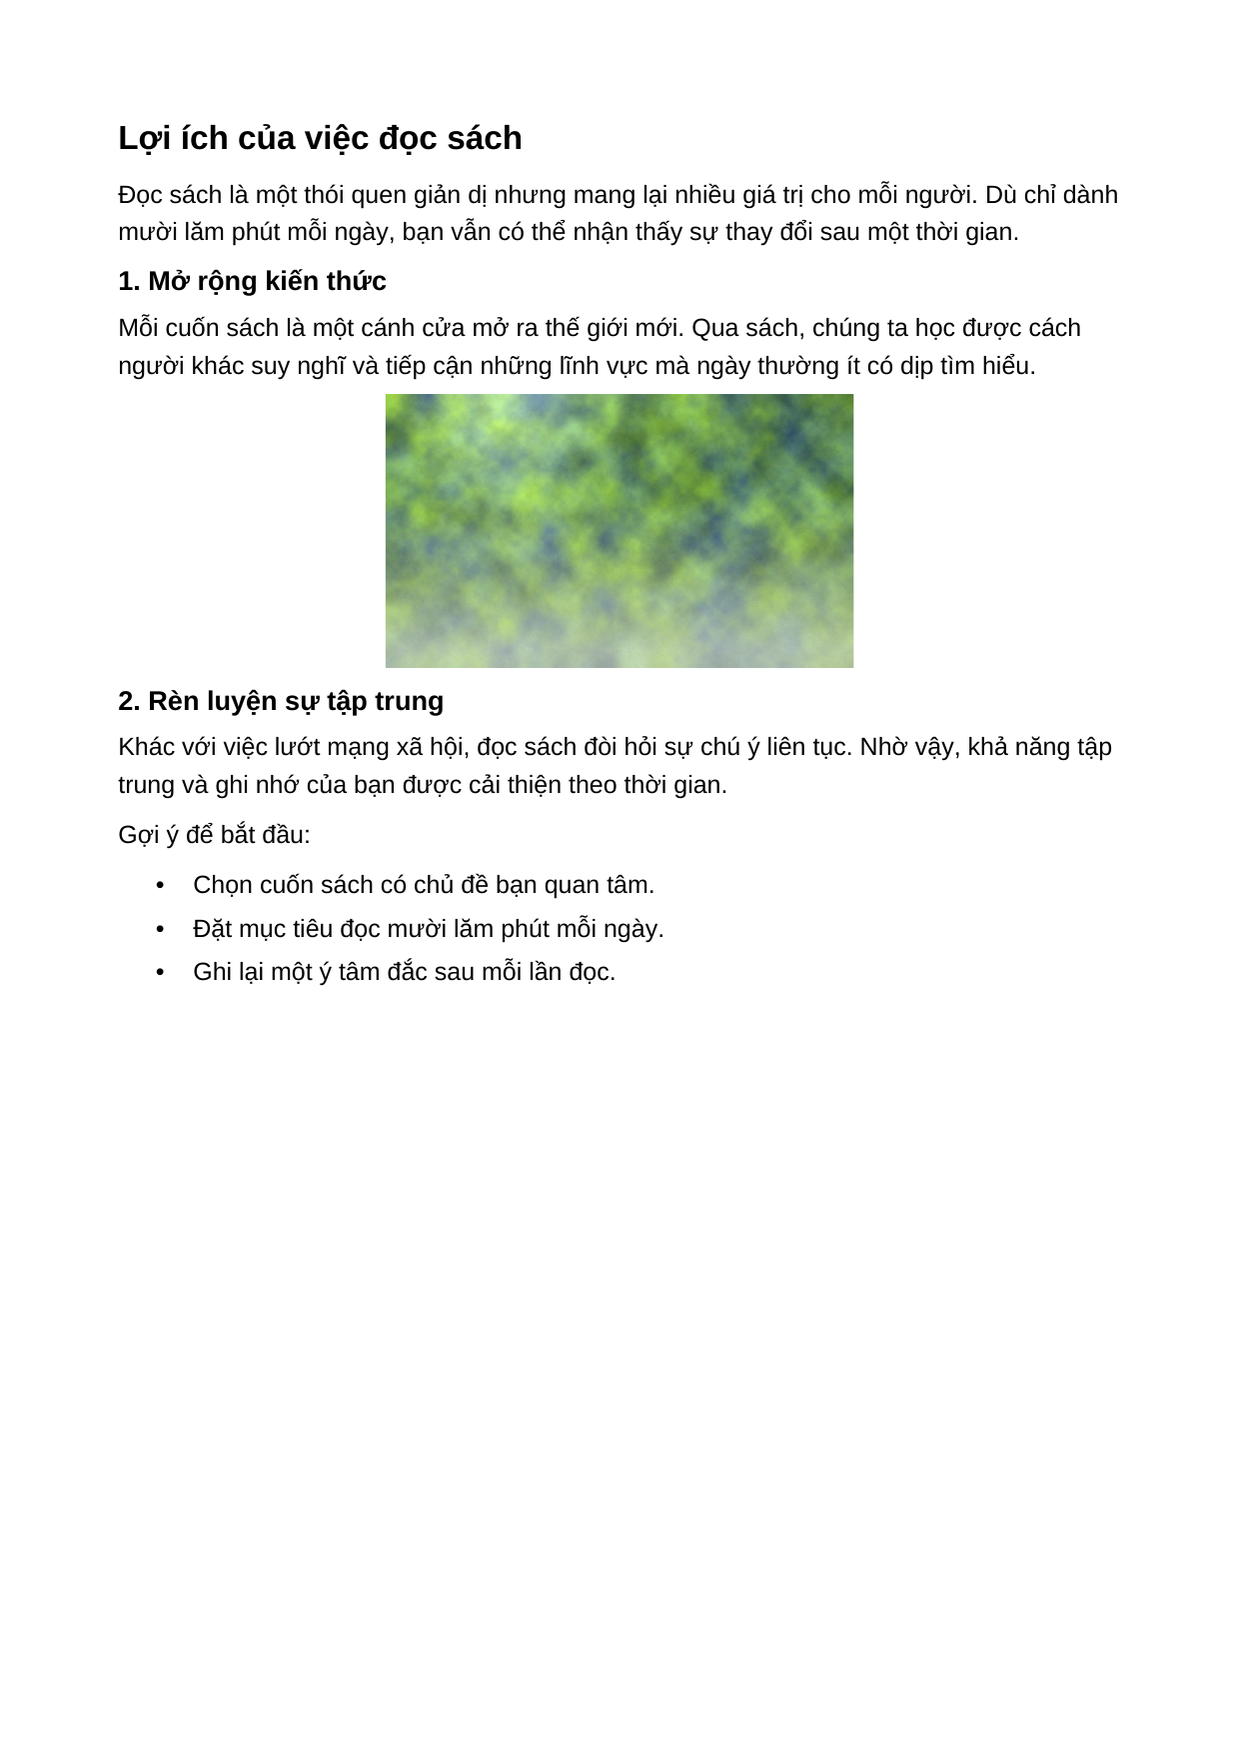
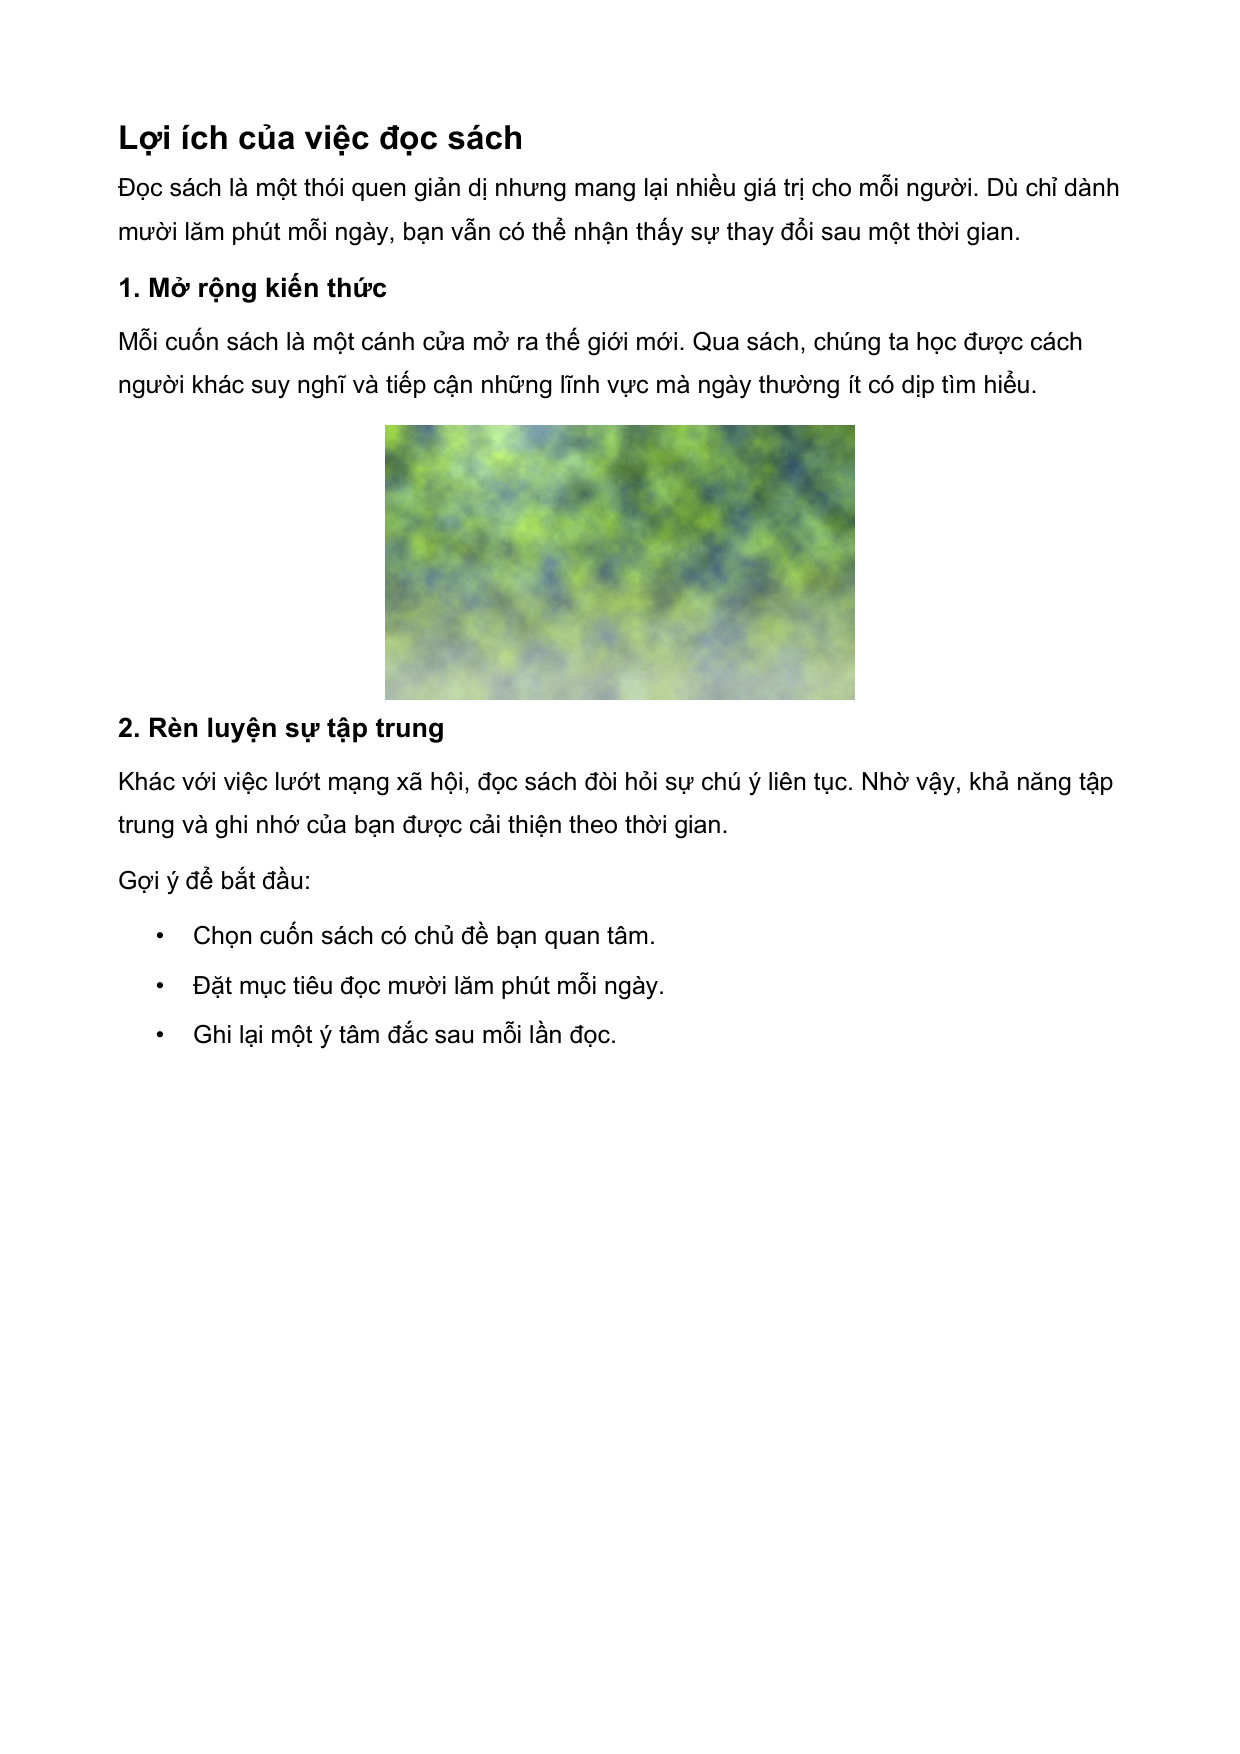
data: render lại ảnh clean từ PDF, thêm morphology ccl rlsa

Changed region(s): [[0.0919, 0.0616, 0.9194, 0.6157]]

diff --git a/src/ccl.py b/src/ccl.py
@@ -1,0 +1,93 @@
+import numpy as np
+
+
+def connected_components(binary, connectivity=8):
+    """Gán nhãn thành phần liên thông.
+    binary      : ảnh 2 chiều, điểm > 0 là điểm trắng (đối tượng)
+    connectivity: 8 (tính đường chéo, giống mặc định của cv2) hoặc 4
+    Trả về (labels, num): labels cùng cỡ ảnh, nền = 0, các vùng = 1..num
+    """
+    if connectivity not in (4, 8):
+        raise ValueError("connectivity phải là 4 hoặc 8")
+    fg = binary > 0
+    h, w = fg.shape
+
+    # Mảng nhãn có thêm 1 hàng phía trên và 1 cột mỗi bên (toàn số 0).
+    # Nhờ viền này, hàng xóm nằm ngoài ảnh tự động là 0, khỏi phải kiểm tra biên.
+    lab = np.zeros((h + 1, w + 2), dtype=np.int32)
+
+    parent = [0]                      # sổ union-find: parent[x] = "cha" của nhãn x (nhãn 0 là nền)
+
+    def find(x):
+        # Lần theo cha cho đến khi gặp gốc (gốc có parent[x] == x)
+        root = x
+        while parent[root] != root:
+            root = parent[root]
+        while parent[x] != root:      # nén đường đi: nối thẳng mọi nhãn trên đường về gốc
+            parent[x], x = root, parent[x]
+        return root
+
+    def union(a, b):
+        # Gộp hai nhóm. Luôn cho gốc LỚN hơn trỏ về gốc NHỎ hơn.
+        ra, rb = find(a), find(b)
+        if ra != rb:
+            if ra < rb:
+                parent[rb] = ra
+            else:
+                parent[ra] = rb
+
+    # ---------------- LƯỢT 1 ----------------
+    # np.nonzero trả về tọa độ điểm trắng theo đúng thứ tự quét (hàng trước, cột sau)
+    ys, xs = np.nonzero(fg)
+    nxt = 1                           # nhãn mới sẽ cấp
+    for y, x in zip(ys.tolist(), xs.tolist()):
+        y1, x1 = y + 1, x + 1         # vị trí tương ứng trong mảng có viền
+        nb = [lab[y1, x1 - 1],        # W : bên trái
+              lab[y1 - 1, x1]]        # N : bên trên
+        if connectivity == 8:
+            nb.append(lab[y1 - 1, x1 - 1])   # NW: trên-trái
+            nb.append(lab[y1 - 1, x1 + 1])   # NE: trên-phải
+        nb = [v for v in nb if v > 0]        # chỉ giữ hàng xóm đã có nhãn
+
+        if not nb:                    # không hàng xóm nào có nhãn -> đảo mới
+            lab[y1, x1] = nxt
+            parent.append(nxt)        # nhãn mới tự là gốc của chính nó
+            nxt += 1
+        else:
+            m = min(nb)               # lấy nhãn nhỏ nhất
+            lab[y1, x1] = m
+            for v in nb:              # các nhãn khác m thật ra cùng một đảo -> gộp
+                if v != m:
+                    union(v, m)
+
+    # ---------------- LƯỢT 2 ----------------
+    # Tìm gốc của từng nhãn tạm, rồi đánh số lại 1..k theo thứ tự gốc tăng dần
+    roots = [find(i) for i in range(nxt)]
+    uniq = sorted(set(roots) - {0})
+    new_id = {r: i + 1 for i, r in enumerate(uniq)}
+    lut = np.zeros(nxt, dtype=np.int32)          # bảng tra: nhãn tạm -> nhãn chính thức
+    for i in range(1, nxt):
+        lut[i] = new_id[roots[i]]
+    labels = lut[lab[1:, 1:-1]]                  # bỏ viền, đổi nhãn bằng bảng tra (rất nhanh)
+    return labels, len(uniq)
+
+
+def bounding_boxes(labels, num):
+    """Hộp bao của từng vùng. Trả về mảng (num, 4): [x0, y0, x1, y1] (gồm cả điểm cuối).
+    Hàng i ứng với vùng có nhãn i + 1. Dùng ở bước sau để lấy hộp của dòng, đoạn, hình."""
+    ys, xs = np.nonzero(labels)
+    ids = labels[ys, xs] - 1
+    x0 = np.full(num, labels.shape[1], dtype=np.int64)
+    y0 = np.full(num, labels.shape[0], dtype=np.int64)
+    x1 = np.full(num, -1, dtype=np.int64)
+    y1 = np.full(num, -1, dtype=np.int64)
+    np.minimum.at(x0, ids, xs)
+    np.minimum.at(y0, ids, ys)
+    np.maximum.at(x1, ids, xs)
+    np.maximum.at(y1, ids, ys)
+    return np.stack([x0, y0, x1, y1], axis=1)
+
+
+def areas(labels, num):
+    """Diện tích (số điểm ảnh) của từng vùng; phần tử i ứng với vùng i + 1."""
+    return np.bincount(labels.ravel(), minlength=num + 1)[1:]

diff --git a/src/morphology.py b/src/morphology.py
@@ -1,0 +1,44 @@
+import numpy as np
+
+def _shift_stack_reduce(img, kernel, pad_value, reducer):
+    kh, kw = kernel.shape
+    cy, cx = kh // 2, kw // 2                  # tâm kernel (kernel nên có kích thước lẻ)
+    h, w = img.shape
+    # Thêm viền quanh ảnh để dịch không bị tràn ra ngoài.
+    # Viền của CO phải là 255 (không làm mất điểm ở mép), viền của GIÃN là 0.
+    padded = np.pad(img, ((cy, kh - 1 - cy), (cx, kw - 1 - cx)),
+                    mode="constant", constant_values=pad_value)
+    out = None
+    for dy in range(kh):
+        for dx in range(kw):
+            if not kernel[dy, dx]:             # ô 0 của kernel thì bỏ qua
+                continue
+            window = padded[dy:dy + h, dx:dx + w]    # ảnh dịch đi (dy, dx)
+            out = window.copy() if out is None else reducer(out, window)
+    return out
+
+
+def erode(img, kernel):
+    # CO: lấy min. Viền 255 để mép ảnh không bị bào oan.
+    return _shift_stack_reduce(img, kernel, 255, np.minimum)
+
+
+def dilate(img, kernel):
+    # GIÃN: lấy max. Viền 0.
+    return _shift_stack_reduce(img, kernel, 0, np.maximum)
+
+
+def opening(img, kernel):
+    # MỞ = co trước, giãn sau: xóa đốm nhỏ hơn kernel
+    return dilate(erode(img, kernel), kernel)
+
+
+def closing(img, kernel):
+    # ĐÓNG = giãn trước, co sau: lấp khe nhỏ hơn kernel
+    return erode(dilate(img, kernel), kernel)
+
+
+def rect_kernel(h, w):
+    # Kernel hình chữ nhật h x w toàn số 1.
+    # Kernel ngang (1 x n) dùng để nối chữ thành dòng, kernel đứng (n x 1) để nối dòng thành đoạn.
+    return np.ones((h, w), dtype=np.uint8)

diff --git a/src/rlsa.py b/src/rlsa.py
@@ -1,0 +1,33 @@
+import numpy as np
+
+
+def rlsa_horizontal(binary, threshold):
+    """RLSA theo từng hàng (ngang). Khoảng trống dài <= threshold giữa hai điểm trắng sẽ được lấp."""
+    out = (binary > 0).astype(np.uint8) * 255
+    for y in range(out.shape[0]):
+        row = out[y] > 0
+        # d = +1 ở đầu mỗi đoạn trắng, -1 ngay sau cuối đoạn trắng
+        d = np.diff(np.concatenate(([0], row.view(np.int8), [0])))
+        starts = np.flatnonzero(d == 1)          # đầu các đoạn trắng
+        ends = np.flatnonzero(d == -1)           # sau cuối các đoạn trắng (loại trừ)
+        if len(starts) < 2:
+            continue                             # có ít hơn 2 đoạn thì không có khoảng trống ở giữa
+        gaps = starts[1:] - ends[:-1]            # độ dài khoảng trống giữa hai đoạn liên tiếp
+        for i in np.flatnonzero(gaps <= threshold):
+            out[y, ends[i]:starts[i + 1]] = 255  # lấp khoảng trống bằng điểm trắng
+    return out
+
+
+def rlsa_vertical(binary, threshold):
+    """RLSA theo từng cột (dọc) = làm RLSA ngang trên ảnh đã chuyển vị rồi chuyển lại."""
+    return rlsa_horizontal(binary.T, threshold).T
+
+
+def rlsa(binary, t_h, t_v, t_smooth=None):
+    """RLSA cổ điển: (ngang với t_h) AND (dọc với t_v), rồi làm mịn ngang thêm một lần (nếu có t_smooth)."""
+    h = rlsa_horizontal(binary, t_h)
+    v = rlsa_vertical(binary, t_v)
+    combined = np.minimum(h, v)                  # AND của hai ảnh 0/255
+    if t_smooth:
+        combined = rlsa_horizontal(combined, t_smooth)
+    return combined

diff --git a/src/render_clean.py b/src/render_clean.py
@@ -1,0 +1,18 @@
+# Render ảnh clean TỪ CHÍNH file PDF -> ảnh và đáp án (gt) luôn khớp tuyệt đối.
+import sys
+from pathlib import Path
+import pymupdf
+
+ROOT = Path(__file__).resolve().parent.parent
+W, H = 1240, 1754                      # kích thước chuẩn của cả nhóm
+OUT = ROOT / "data" / "clean_new"      # ghi ra thư mục MỚI, chưa đè ảnh cũ
+OUT.mkdir(parents=True, exist_ok=True)
+
+ids = sys.argv[1:] or [f"doc{i:02d}" for i in range(1, 11)]
+for d in ids:
+    page = pymupdf.open(ROOT / "data" / "pdf" / f"{d}.pdf")[0]
+    m = pymupdf.Matrix(W / page.rect.width, H / page.rect.height)   # cùng hệ số với gen_gt
+    pix = page.get_pixmap(matrix=m, colorspace=pymupdf.csRGB)       # ảnh màu, nền trắng
+    n = int(d[3:])                                                   # doc03 -> clean3.png
+    pix.save(str(OUT / f"clean{n}.png"))
+    print(d, "->", f"clean{n}.png", pix.width, "x", pix.height)
